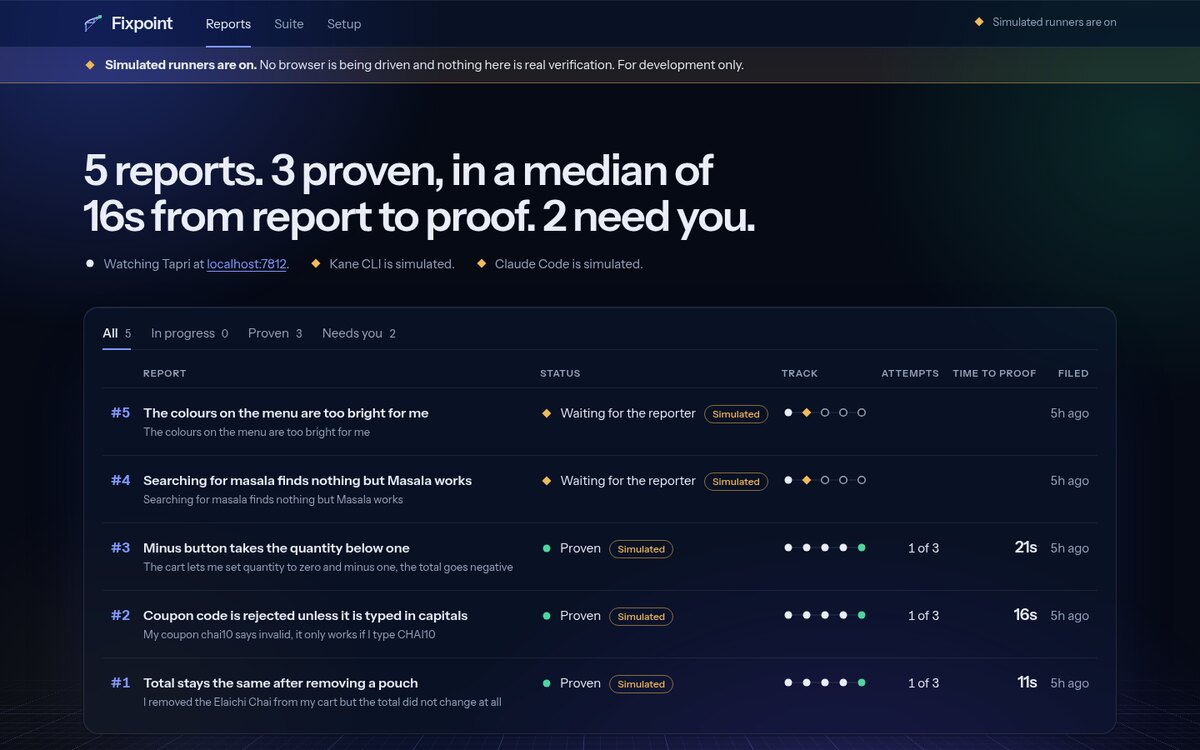
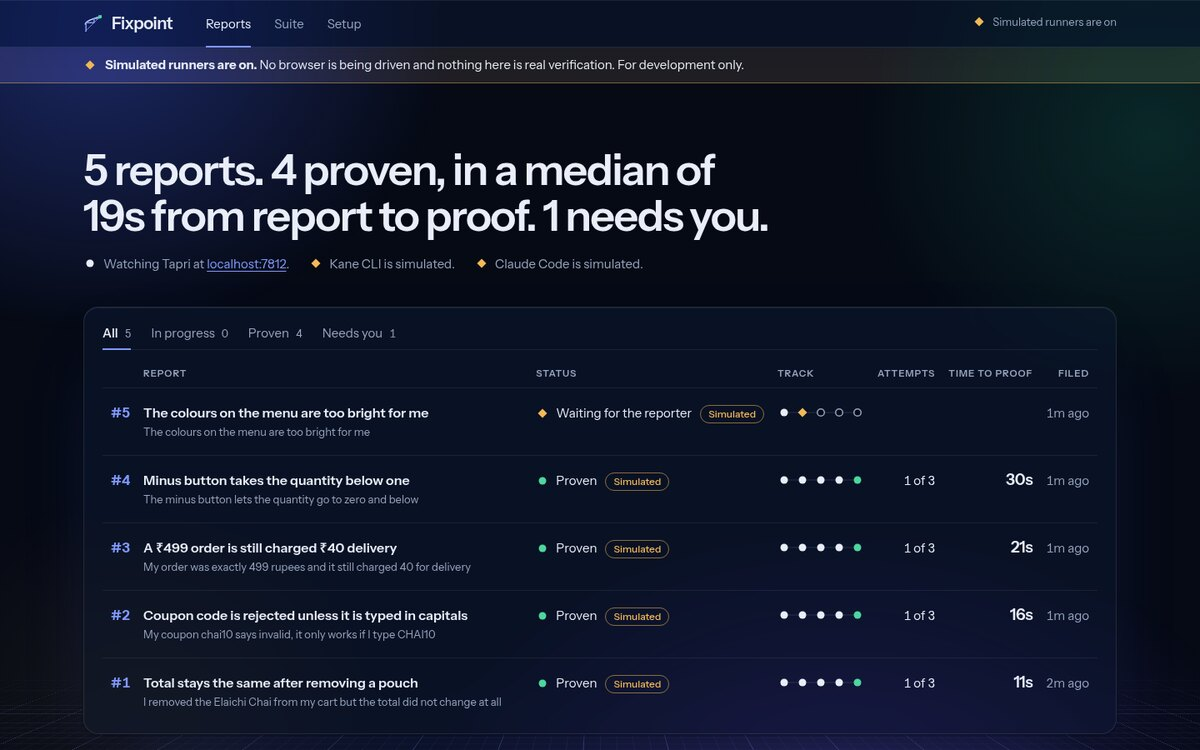
Retake the screenshots and draw the loop as a state diagram with a status table

diff --git a/README.md b/README.md
@@ -24,7 +24,7 @@ attached. The check stays behind as a regression test. The name is the idea: ite
 the result stops changing.
 
 <p align="center">
-  <img src="docs/images/board.jpg" alt="The Fixpoint board: five reports, three proven, two waiting on the reporter" width="49%">
+  <img src="docs/images/board.jpg" alt="The Fixpoint board: five reports, four proven, one waiting on the reporter" width="49%">
   <img src="docs/images/case-file.jpg" alt="A case file: the report, the check, Kane's runs, the patch and the proof" width="49%">
 </p>
 <p align="center"><sub>The board and a case file. These screenshots come from the demo with <code>--stubs</code>, so every run is marked Simulated.</sub></p>
@@ -102,51 +102,49 @@ the console's Setup page, which also clears what the running process holds in me
 
 ## How the loop works
 
-The status names below are the real ones, from `internal/core/types.go`.
+Every report moves through the statuses below. The names are the real ones from
+`internal/core/types.go`, and the console shows each one live.
 
-```
-  report --> triaging --> reproducing --> fixing --> verifying --> regressing --> proven
-             (agent)        (Kane)       (agent)      (Kane)        (Kane)
-                |              |                         |              |
-    decision    |       exit 0 | not reproduced   exit 1 | still   exit | an earlier
-    "ask"       |              v                         | fails   1    | fix broke
-                |         needs_info                     |              |
-                |      (one question to                  v              v
-                +---->  the reporter)           +----------------------------+
-                              |                 |  attempt n+1: the agent is |
-                              | reply,          |  given Kane's newest run   |
-                              |  re-queued      |  and tries again           |
-                              v                 +----------------------------+
-                        queued, triaging                   |         |
-                                                 fixing <--+         | after 3
-                                                                     | attempts
-                                                                     v
-                                                     restore the baseline snapshot,
-                                                              escalated
+```mermaid
+stateDiagram-v2
+    direction LR
+    [*] --> queued: report filed
+    queued --> triaging
+    triaging --> reproducing: check written
+    triaging --> needs_info: too vague to check
+    reproducing --> fixing: Kane fails, the bug is real
+    reproducing --> awaiting_approval: Kane fails, autonomy ask
+    awaiting_approval --> fixing: you approve
+    reproducing --> needs_info: Kane passes
+    needs_info --> queued: the reporter answers
+    needs_info --> unreproduced: two rounds, no bug
+    fixing --> verifying: patch applied
+    fixing --> reproducing: check revised, once
+    verifying --> fixing: still fails, next attempt
+    verifying --> regressing: the check passes
+    regressing --> fixing: an earlier fix broke
+    regressing --> proven: every earlier check holds
+    fixing --> escalated: third failed attempt
+    proven --> [*]
+    unreproduced --> [*]
+    escalated --> [*]
 ```
 
-- `queued` -> `triaging`: the agent reads the report and answers `check` or `ask`. `ask`
-  becomes `needs_info` with one question for the reporter; an answer re-queues the report,
-  and triage runs again with the whole conversation in the prompt.
-- `reproducing`: Kane runs the check. **A failure is the good outcome** - it means the bug
-  is real and reproduced, with evidence. A pass means not reproduced, so the reporter gets
-  the follow-up question the agent prepared. Two unanswered or unreproduced rounds close
-  the report as `unreproduced`.
-- `fixing`: the target directory is snapshotted, then the agent patches it. If it changed
-  nothing, the attempt is `no_change`. If the check itself was wrong it may answer
-  `revise_check` once, before any patch has landed, and the new check goes back to
-  `reproducing`. `give_up` escalates.
-- `verifying`: Kane runs **the same check** against the patched app. Still failing means
-  the next attempt gets this run's evidence in its prompt.
-- `regressing`: Kane re-runs the saved check of **every earlier proven fix**. One failure
-  means the attempt `regressed` and does not count as a fix.
-- `proven`: the check is saved as a suite test, the patch is written to
-  `.fixpoint/artifacts/<report>/fix.patch`, and `Proof` records the failing run, the
-  passing run, the whole diff from baseline, and the before and after screenshots.
-- Three attempts without a pass: the baseline snapshot is restored, so the app is exactly
-  as it was, and the status is `escalated` with everything Kane and the agent found.
-- With `--autonomy ask`, a reproduced report waits in `awaiting_approval` until you press
-  "Approve the fix".
+| Status | Who works | What happens | What moves it on |
+|---|---|---|---|
+| `triaging` | Claude Code | Reads the report, the conversation and your source, then writes one browser check, or decides to ask. | A check goes to Kane. A question goes to the reporter. |
+| `reproducing` | Kane CLI | Runs the check in Chrome for the first time. **A failure is the good outcome**: the bug is real, with evidence. | Fails: on to fixing. Passes: the reporter gets the agent's follow-up question. |
+| `needs_info` | the reporter | Answers one question in the widget or on the status page. | An answer queues the report again. Two rounds without a reproduction close it as `unreproduced`. |
+| `fixing` | Claude Code | The app is snapshotted, then patched. The prompt carries Kane's steps, captured values, failure record and console errors. | A patch goes to Kane. A wrong check may be revised once, before any patch lands. |
+| `verifying` | Kane CLI | Runs **the same check** against the patched app. | Still failing: the next attempt gets this run as evidence. Passing: on to regressing. |
+| `regressing` | Kane CLI | Replays the saved check of **every earlier proven fix**. | One failure means the patch broke something, so it does not count. All pass: proven. |
+| `proven` | nobody | The check joins the suite and the patch is saved as `fix.patch`. The case file shows the failing run, the patch and the passing run side by side. | Done. |
+| `escalated` | you | Three attempts did not hold, or the agent gave up. The baseline is restored, so the app is exactly as it was. | Done, with everything Kane and the agent found attached. |
+
+Two more statuses exist. `awaiting_approval` holds a reproduced report until you press
+"Approve the fix", when Fixpoint runs with `--autonomy ask`. `error` means a tool stopped the
+run, such as a missing sign-in or a timeout. Its message says what to do, and the report
+can be retried.
 
 One report is worked on at a time, because fixes change one working tree. The rest queue.
 
